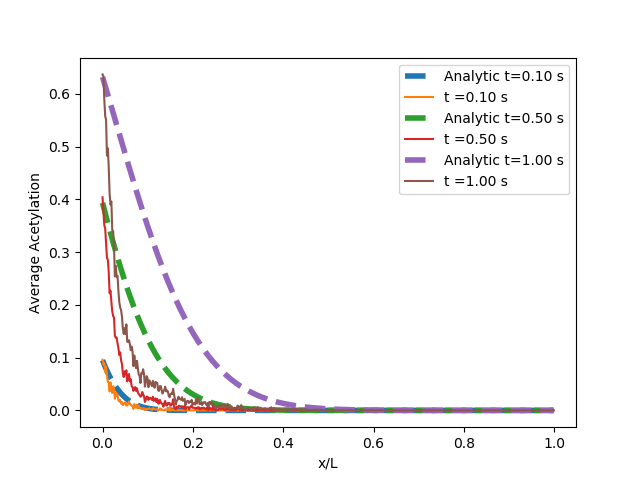
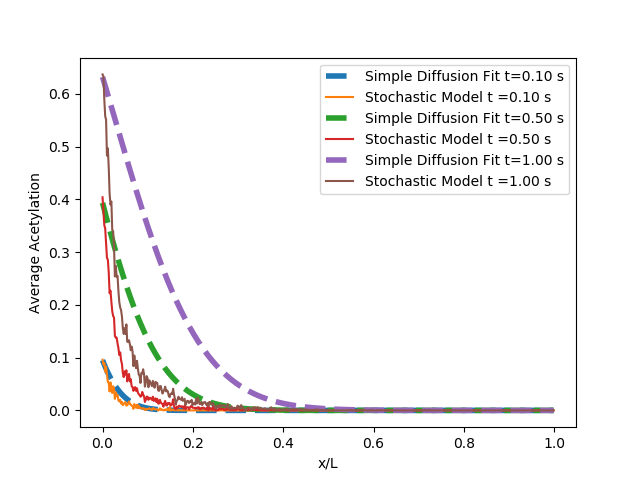
idk a bunch of shit

Changed region(s): [[0.5, 0.125, 0.875, 0.4062]]

diff --git a/StochasticPlotter.py b/StochasticPlotter.py
@@ -118,19 +118,19 @@ for i, value in enumerate(SliceTimes):
         acetylationfit = aAnalytic(value,1)
         pfit = pAnalytic(value)
         plt.figure(1)
-        plt.plot(mt,pfit,ls='dashed',lw=4,label=('Analytic t=%.2f s'%(value)))
+        plt.plot(mt,pfit,ls='dashed',lw=4,label=('Simple Diffusion Fit t=%.2f s'%(value)))
         plt.figure(2)
-        plt.plot(mt,acetylationfit,ls='dashed',lw=4,label=('Analytic t=%.2f s'%(value)))
+        plt.plot(mt,acetylationfit,ls='dashed',lw=4,label=('Simple Diffusion Fit t=%.2f s'%(value)))
         
         plt.figure(1)
-        plt.plot(mt,density2[i],label=('t = %.2f s'%(value)))
+        plt.plot(mt,density2[i],label=('Stochastic Model t = %.2f s'%(value)))
         plt.figure(2)
-        plt.plot(mt,acetylation2[i]/am,label=('t =%.2f s'%(value)))
+        plt.plot(mt,acetylation2[i]/am,label=('Stochastic Model t =%.2f s'%(value)))
 
 ax = plt.gca()
 plt.figure(3) 
 NtotAnalytic = p0*np.sqrt(4*D0/(dx*dx)*TotTimes/np.pi)
-plt.plot(TotTimes,NtotAnalytic,c='r',ls='dashed',lw=4,label='Analytic')
+plt.plot(TotTimes,NtotAnalytic,c='r',ls='dashed',lw=4,label='Simple Diffusion Fit')
 
 plt.figure(1)
 plt.xlabel('x/L')
@@ -144,7 +144,7 @@ plt.legend()
 
 plt.figure(3)
 ax = plt.gca()
-plt.plot(TotTimes,NTot,label='Stochastic')
+plt.plot(TotTimes,NTot,label='Stochastic Model')
 plt.fill_between(TotTimes,minNTot,maxNTot,alpha=.3)
 ax.set_xscale('log')
 ax.set_yscale('log')
@@ -158,8 +158,8 @@ for t in TotTimes:
 
 plt.figure(4)
 ax = plt.gca()
-plt.plot(TotTimes,ATot,label='Stochastic')
-plt.plot(TotTimes,ATotFit,label='Analytic')
+plt.plot(TotTimes,ATot,label='Stochastic Model')
+plt.plot(TotTimes,ATotFit,label='Simple Diffusion Fit')
 plt.fill_between(TotTimes,minATot,maxATot,alpha=.3)
 ax.set_xscale('log')
 ax.set_yscale('log')

diff --git a/NoDimPde.py b/NoDimPde.py
@@ -33,7 +33,7 @@ width = np.size(xbar)
 ### pTot and aTot plotting array
 dtbar = min(0.5/p0hat , 0.10*dxbar**2)
 tArray = np.logspace(-200,0,num=200,base=1.1)*tbarmax
-p2 = np.logspace(2,2,1,base=10)
+p2 = np.logspace(-2,2,5,base=3)
 #p2 = np.array([.0625,64])
 pArray = np.zeros((np.size(p2) , width))        
 aArray = np.zeros_like(pArray)
@@ -89,7 +89,7 @@ for p0hat in p2:
 
                 pscaler = 1+p+p**2     
                 p_1[1:width] = p[1:width] +   dtbar *  ( ( (p[0:width-1] - p[1:width]) / ((pscaler[0:width-1]+pscaler[1:width])/2) + (p[2:width+1] - p[1:width]) / ((pscaler[2:width+1]+pscaler[1:width])/2 )) / (dxbar**2))  
-                acetyl[0:width] = acetyl[0:width] + (1 - acetyl[0:width] ) * dtbar * p[0:width] ### NO SFD
+                acetyl[0:width] = acetyl[0:width] + (1 - acetyl[0:width] ) * dtbar * p[0:width]/p0hat ### NO SFD
                  
                 telapsed += dtbar                     
 
@@ -152,11 +152,11 @@ for i , value in enumerate(p2):
         counter+=1
 
 plt.figure(1)
-plt.plot(xbar,pReg[0:width],label=('No Single File Effects'))
+plt.plot(xbar,pReg[0:width],ls='dashed',label=('Simple Diffusion Fit'))
 plt.legend()
 
 plt.figure(2)
-plt.plot(xbar,aReg,label=('No Single File Effects'))
+plt.plot(xbar,aReg,ls='dashed',label=('Simple Diffusion Fit'))
 plt.legend()
 plt.figure(3)
 #plt.scatter(tArray , pTotReg,s=2,label=('No Single File Effects'))

diff --git a/DimPDE.py b/DimPDE.py
@@ -11,10 +11,12 @@ import time
 
 parser = argparse.ArgumentParser(description='Command line inputs:')
 parser.add_argument('-p0','--p0',default=1)
-parser.add_argument('-pscale','--pscale',default=.01)
+#parser.add_argument('-pscale','--pscale',default=.01)
+parser.add_argument('-kon','--kon',default=1000)
+parser.add_argument('-koff','--koff',default=10)
 parser.add_argument('-dx','--dx',default=7.0)
 parser.add_argument('-D0','--D0',default = 2.7e5)
-parser.add_argument('-xmax','--xmax',default=4.0e3)
+parser.add_argument('-xmax','--xmax',default=3584.0)
 parser.add_argument('-dt','--dt',default=1.0e-5)
 parser.add_argument('-tmax','--tmax',default=32.0)
 parser.add_argument('-arate','--arate',default=1.0)
@@ -29,9 +31,15 @@ tmax = float(args.tmax)
 D0 = float(args.D0)
 arate = float(args.arate)
 am = float(args.am)
-pscale = float(args.pscale)
+#pscale = float(args.pscale)
+kon = float(args.kon)
+koff = float(args.koff)
 
-
+Kd = koff/kon
+fractionfree = Kd/(1+Kd)
+khop = 2.0*D0/(dx*dx)/fractionfree
+pscale = np.sqrt((kon+koff)/khop)*(1+Kd)
+print('The effective pscale is:',pscale)
 colorList = ['b','g','r','c','m','k','y']
 
 
